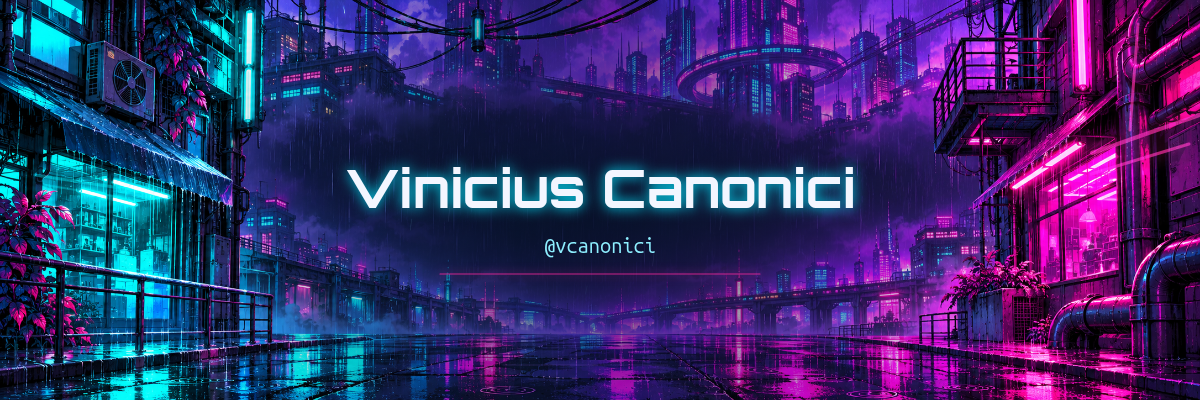
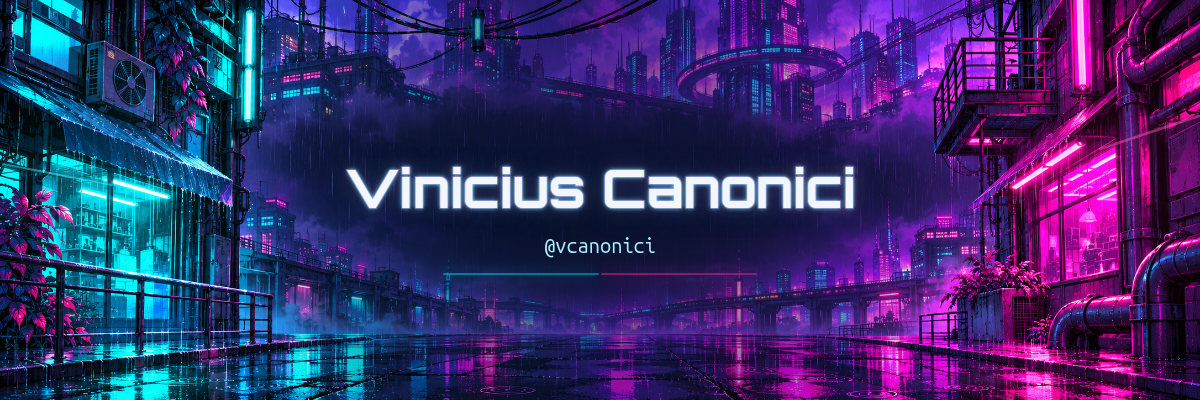
fix(profile): make neon animation smooth and preserve full colour

diff --git a/design/banner.html b/design/banner.html
@@ -1,41 +1,46 @@
 <!doctype html>
 <html lang="en"><meta charset="utf-8"><title>Vinicius Canonici — neon city banner</title>
 <style>@font-face{font-family:Orbitron;src:url('../assets/Orbitron.ttf')}*{box-sizing:border-box}body{margin:0;background:#080d24;color:#f3f6ff;font-family:system-ui}canvas{display:block;width:100%;height:auto;max-width:1200px;margin:0 auto}p{max-width:70ch;margin:24px auto;padding:0 20px}a{color:#00e5ff}</style>
-<canvas width="1200" height="400" aria-label="Vinicius Canonici, surrounded by cyan and magenta neon in a rainy futuristic city"></canvas>
-<p>Original profile banner. <a href="../assets/banner-static.png">Static version</a>. The animation is a four-second loop; its light changes are gradual.</p>
+<canvas width="1200" height="400" aria-label="Vinicius Canonici, with cyan and magenta neon illuminating a futuristic city"></canvas>
+<p>Original city artwork with a five-second neon-light loop. <a href="../assets/banner-static.png">Static version</a>.</p>
 <script>
-const canvas=document.querySelector('canvas'), ctx=canvas.getContext('2d');
-const city=new Image(); city.src='../assets/cyberpunk-city.png';
+const canvas=document.querySelector('canvas'),ctx=canvas.getContext('2d');
+const city=new Image();city.src='../assets/cyberpunk-city.png';
 const ready=Promise.all([city.decode(),document.fonts.load('700 54px Orbitron')]);
-const tau=Math.PI*2;
-function glowLine(points,color,width,blur,alpha=1){
+const tau=Math.PI*2,frames=125,duration=5000;
+function glowLine(points,color,width,blur,alpha){
  ctx.save();ctx.globalAlpha=alpha;ctx.strokeStyle=color;ctx.lineWidth=width;ctx.shadowBlur=blur;ctx.shadowColor=color;ctx.lineCap='round';ctx.beginPath();points.forEach(([x,y],i)=>i?ctx.lineTo(x,y):ctx.moveTo(x,y));ctx.stroke();ctx.restore();
 }
-function render(t=0){
- ctx.clearRect(0,0,1200,400);ctx.drawImage(city,0,0,1200,400);
- const wash=ctx.createRadialGradient(600,213,30,600,213,410);wash.addColorStop(0,'rgba(8,13,36,.58)');wash.addColorStop(.67,'rgba(8,13,36,.22)');wash.addColorStop(1,'rgba(8,13,36,0)');ctx.fillStyle=wash;ctx.fillRect(0,0,1200,400);
- const cyan=.40+.28*Math.sin(tau*t), magenta=.42+.27*Math.sin(tau*t+2);
- ctx.save();ctx.globalCompositeOperation='screen';
- glowLine([[35,175],[133,190]],'#00e5ff',3,16,cyan);
- glowLine([[45,185],[126,198]],'#00e5ff',2,10,cyan*.8);
- glowLine([[237,12],[236,86]],'#00e5ff',3,17,cyan);
- glowLine([[1138,24],[1130,130]],'#ff2aa1',3,18,magenta);
- glowLine([[1200,115],[1092,153]],'#ff2aa1',4,20,magenta);
- glowLine([[1189,144],[1091,174]],'#ff2aa1',3,16,magenta);
- glowLine([[503,365],[668,365]],'#9254ff',1,8,.15+.1*Math.sin(tau*t));
- // Looping rain. Each streak moves one complete vertical tile per period.
- for(let i=0;i<74;i++){
-  const x=((i*137.23)%1200),y=(((i*79.71)+t*440)%440)-20;
-  glowLine([[x,y],[x-1.5,y+8+(i%8)]],i%3?'#9b9af0':'#79f1ff',.55,0,.06+(i%4)*.022);
- }
- ctx.restore();
- // Typography stays still while light breathes around it.
- ctx.textAlign='center';ctx.textBaseline='middle';ctx.font='700 54px Orbitron';ctx.fillStyle='#f3f6ff';
- ctx.shadowColor='#00e5ff';ctx.shadowBlur=13+3*Math.sin(tau*t);ctx.fillText('Vinicius Canonici',600,191);
- ctx.shadowBlur=0;ctx.font='20px monospace';ctx.fillStyle='#8eefff';ctx.fillText('@vcanonici',600,247);
- glowLine([[440,274],[760,274]],'#ff2aa1',1.2,10,.65+.12*Math.sin(tau*t+1));
+function light(x,y,radius,color,strength,flatten=1){
+ ctx.save();ctx.translate(x,y);ctx.scale(1,flatten);ctx.globalAlpha=strength;
+ const g=ctx.createRadialGradient(0,0,0,0,0,radius);g.addColorStop(0,color);g.addColorStop(1,'transparent');ctx.fillStyle=g;ctx.fillRect(-radius,-radius,radius*2,radius*2);ctx.restore();
 }
-window.renderBanner=async function(t){await ready;render(t)};
-window.exportBanner=async function(){await ready;for(let i=0;i<40;i++){render(i/40);const blob=await new Promise(resolve=>canvas.toBlob(resolve,'image/png'));const r=await fetch('/__frame/'+String(i).padStart(3,'0'),{method:'POST',body:blob});if(!r.ok)throw Error('Frame export failed '+i);}render(0);return{frames:40,width:1200,height:400,duration:4000}};
-ready.then(()=>{if(location.search.includes('still')){render(0);return}const start=performance.now();function animate(now){render(((now-start)%4000)/4000);requestAnimationFrame(animate)}requestAnimationFrame(animate)});
+function render(t=0){
+ const phase=tau*t,cyan=.5+.5*Math.sin(phase),pink=.5+.5*Math.sin(phase+Math.PI);
+ ctx.clearRect(0,0,1200,400);ctx.drawImage(city,0,0,1200,400);
+ // Light changes stay attached to the city and its wet-pavement reflections.
+ ctx.save();ctx.globalCompositeOperation='screen';
+ light(125,188,235,'#00cfff',.06+.20*cyan);
+ light(1100,173,240,'#ff179b',.06+.22*pink);
+ light(190,380,200,'#00ddff',.08+.23*cyan,.13);
+ light(1015,380,200,'#ff2aa1',.08+.23*pink,.13);
+ glowLine([[3,164],[112,185]],'#38f3ff',2,15,.15+.6*cyan);
+ glowLine([[1100,149],[1199,116]],'#ff55b4',2.5,17,.15+.6*pink);
+ ctx.restore();
+ // Keep the image and lettering steady: only the neon emission changes.
+ const shade=ctx.createRadialGradient(600,210,45,600,210,355);shade.addColorStop(0,'rgba(8,13,36,.62)');shade.addColorStop(.72,'rgba(8,13,36,.28)');shade.addColorStop(1,'rgba(8,13,36,0)');ctx.fillStyle=shade;ctx.fillRect(0,0,1200,400);
+ ctx.save();ctx.textAlign='center';ctx.textBaseline='middle';ctx.font='700 54px Orbitron';
+ // Continuous complementary emission, with a sharp, always-readable light core.
+ for(const [color,alpha,blur] of [['#00e5ff',.30+.45*cyan,28],['#ff2aa1',.30+.45*pink,18]]){
+  ctx.globalAlpha=alpha;ctx.strokeStyle=color;ctx.lineWidth=1.7;ctx.shadowColor=color;ctx.shadowBlur=blur;ctx.strokeText('Vinicius Canonici',600,191);
+ }
+ ctx.globalAlpha=1;ctx.shadowBlur=5;ctx.shadowColor='#77eaff';ctx.fillStyle='#f3f6ff';ctx.fillText('Vinicius Canonici',600,191);
+ ctx.shadowBlur=0;ctx.font='20px monospace';ctx.fillStyle='#a8f3ff';ctx.fillText('@vcanonici',600,247);ctx.restore();
+ // Two neon tubes breathe in opposition; there is no travelling scanline or fake rain.
+ glowLine([[444,274],[598,274]],'#00e5ff',1.7,15,.25+.65*cyan);
+ glowLine([[602,274],[756,274]],'#ff2aa1',1.7,15,.25+.65*pink);
+}
+window.renderBanner=async t=>{await ready;render(t)};
+window.exportBanner=async function(){await ready;for(let i=0;i<frames;i++){render(i/frames);const blob=await new Promise(resolve=>canvas.toBlob(resolve,'image/png'));const r=await fetch('/__frame/'+String(i).padStart(3,'0'),{method:'POST',body:blob});if(!r.ok)throw Error('Frame export failed '+i);}render(0);return{frames,width:1200,height:400,duration}};
+ready.then(()=>{if(location.search.includes('still')||matchMedia('(prefers-reduced-motion: reduce)').matches){render(0);return}const start=performance.now();function animate(now){render(((now-start)%duration)/duration);requestAnimationFrame(animate)}requestAnimationFrame(animate)});
 </script></html>

diff --git a/design/README.md b/design/README.md
@@ -1,6 +1,6 @@
 # Neon city banner
 
-The city background is an original generated illustration. `banner.html` renders the typography, breathing neon lights, and rain on a canvas. The animation uses a four-second loop; the lettering stays still.
+The city background is an original generated illustration. `banner.html` renders the name as a neon sign and animates the surrounding light and its pavement reflections. The background, camera, and lettering stay still. There is no added rain, scrolling text, scanline, or flashing effect.
 
 Preview from the repository root:
 
@@ -8,8 +8,10 @@ Preview from the repository root:
 python3 -m http.server 8000 --bind 127.0.0.1
 ```
 
-Open `http://127.0.0.1:8000/design/banner.html`; append `?still` for a still frame. The profile uses the checked-in GIF, with a static PNG for reduced-motion presentation and a direct link to the static version.
+Open `http://127.0.0.1:8000/design/banner.html`; append `?still` for a still frame. The preview also respects reduced-motion preferences.
+
+The profile serves a full-colour animated WebP, a GIF fallback, and a static PNG for reduced-motion presentation. A direct static-image link is included below the profile text.
 
 Palette: navy `#080D24`, cyan `#00E5FF`, magenta `#FF2AA1`, violet `#9254FF`, and pale text `#F3F6FF`. Typography: Orbitron for the name and monospace for the handle. Font licensing is included with the assets.
 
-The optional `window.exportBanner()` development helper posts forty rendered PNG frames to a local `/__frame/NNN` export handler. It does not contact a third-party service and is not needed to view the banner. The committed GIF contains forty frames at 100 ms each.
+The five-second loop is rendered at 25 frames per second. The WebP encoder may coalesce visually identical frames while preserving their duration. The optional `window.exportBanner()` development helper posts 125 rendered PNG frames to a local `/__frame/NNN` export handler; it does not contact any third-party service and is not needed to view the banner.

diff --git a/README.md b/README.md
@@ -1,5 +1,6 @@
 <picture>
   <source media="(prefers-reduced-motion: reduce)" srcset="assets/banner-static.png">
+  <source type="image/webp" srcset="assets/banner.webp">
   <img src="assets/banner.gif" alt="Vinicius Canonici — cyan and magenta neon lights illuminate a rainy futuristic city" width="1200">
 </picture>
 
